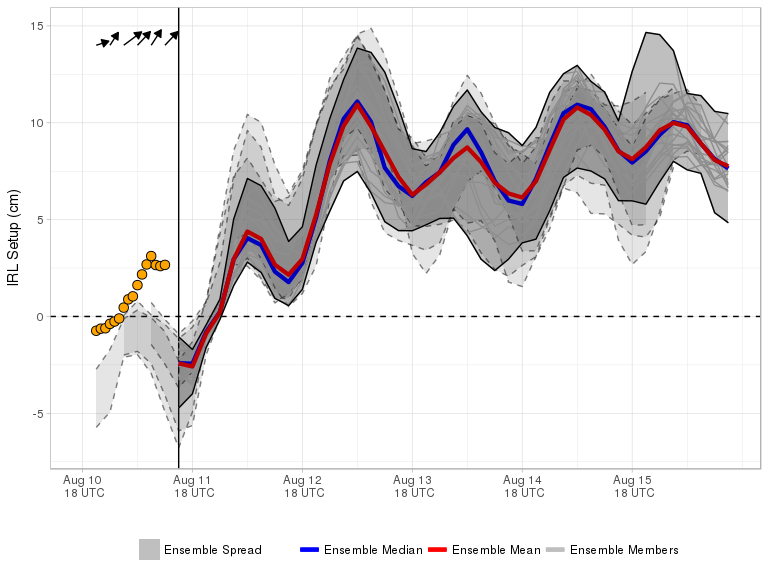
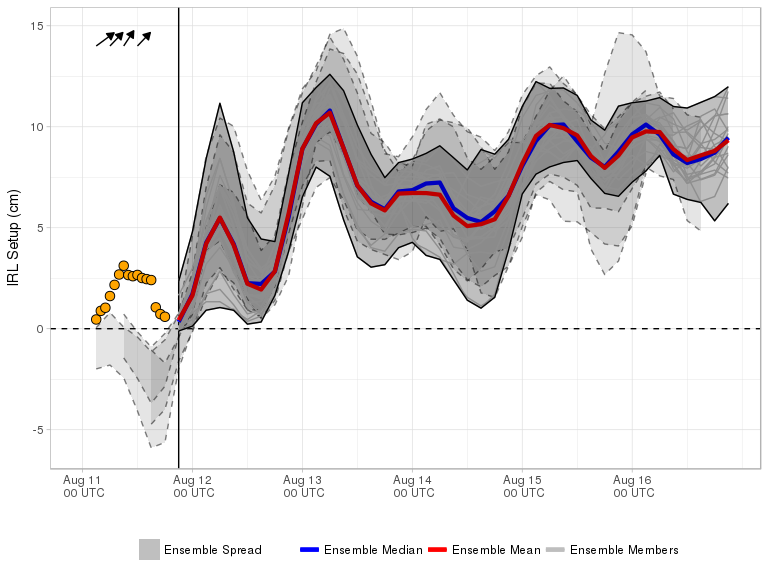
Forecast Update

diff --git a/docs/index.md b/docs/index.md
@@ -1,9 +1,9 @@
-Current Forecast 2018-08-11, Cycle 06UTC
+Current Forecast 2018-08-11, Cycle 12UTC
 ----------------------------------------
 
 [![](img/raw_setup.png)](https://fit-winds.github.io/IRLSetup/img/raw_setup.png)
 
-> Forecast valid 2018-08-11 08:22:40.
+> Forecast valid 2018-08-11 14:28:49.
 
 Explanation
 -----------
@@ -17,7 +17,7 @@ star), and Sebastian, FL (white star). In general, southerly (northerly)
 winds result in increased water elevation near Titusville (Sebastian)
 and positive (negative) setup.
 
-The current cycle 2018-08-11 06UTC 0.5° [Global Ensemble Forecast System
+The current cycle 2018-08-11 12UTC 0.5° [Global Ensemble Forecast System
 (GEFS)](https://www.ncdc.noaa.gov/data-access/model-data/model-datasets/global-ensemble-forecast-system-gefs)
 mean and median forecasts of setup are represented by the red and blue
 curves, respectively. Ensemble spread from the current and three
